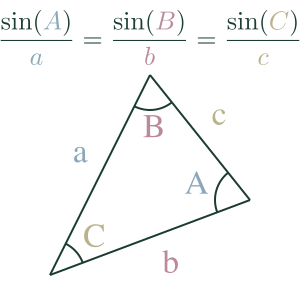
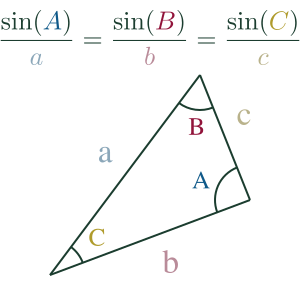
Various fixes to law of sines.

diff --git a/code/manim/law_of_sines.py b/code/manim/law_of_sines.py
@@ -22,7 +22,7 @@ line_args = {}
 
 class LawOfSinesTriangle(Scene):
     def construct(self):
-        line_1 = Line(start=array([-2, -2.5, 0]), end=array([0, 1.5, 0]), **line_args)
+        line_1 = Line(start=array([-2, -2.5, 0]), end=array([1, 1.5, 0]), **line_args)
         line_1.set_color(Theme.TEXT_COLOR)
 
         line_2 = Line(start=array([-2, -2.5, 0]), end=array([2, -1, 0]), **line_args)
@@ -40,13 +40,13 @@ class LawOfSinesTriangle(Scene):
         equation = MathTex(r"\frac{\sin(A)}{a} = \frac{\sin(B)}{b} = \frac{\sin(C)}{c}", font_size=50)
         equation.set_color(Theme.TEXT_COLOR)
 
-        equation[0][4].set_color(Theme.COLOR_2)
+        equation[0][4].set_color(Theme.COLOR_2_a)
         equation[0][7].set_color(Theme.COLOR_2)
 
-        equation[0][13].set_color(Theme.COLOR_3)
+        equation[0][13].set_color(Theme.COLOR_3_a)
         equation[0][16].set_color(Theme.COLOR_3)
 
-        equation[0][22].set_color(Theme.COLOR_1)
+        equation[0][22].set_color(Theme.COLOR_1_a)
         equation[0][25].set_color(Theme.COLOR_1)
 
         equation.move_to(UP * 2.25)
@@ -57,9 +57,9 @@ class LawOfSinesTriangle(Scene):
         self.add_label(line_2, 'b', Theme.COLOR_3, DOWN + RIGHT)
         self.add_label(line_3, 'c', Theme.COLOR_1, UP + RIGHT)
 
-        self.add_angle_label(angle_A, 'A', Theme.COLOR_2, 0.2 * UP + 0.5 * LEFT)
-        self.add_angle_label(angle_B, 'B', Theme.COLOR_3, 0.4 * DOWN + 0 * LEFT)
-        self.add_angle_label(angle_C, 'C', Theme.COLOR_1, 0.35 * UP + 0.4 * RIGHT)
+        self.add_angle_label(angle_A, 'A', Theme.COLOR_2_a, 0.2 * UP + 0.5 * LEFT)
+        self.add_angle_label(angle_B, 'B', Theme.COLOR_3_a, 0.4 * DOWN + 0 * LEFT)
+        self.add_angle_label(angle_C, 'C', Theme.COLOR_1_a, 0.35 * UP + 0.4 * RIGHT)
 
     def add_label(self, line, text, color, direction):
         label = Text(text)
@@ -68,7 +68,7 @@ class LawOfSinesTriangle(Scene):
         self.add(label)
 
     def add_angle_label(self, angle, text, color, offset):
-        label = Text(text)
+        label = Text(text, font_size=36)
         label.set_color(color)
         label.move_to(angle.get_center() + offset)
         self.add(label)

diff --git a/code/manim/theme.py b/code/manim/theme.py
@@ -6,4 +6,8 @@ class Theme():
     COLOR_3 = '#b98b99'
     COLOR_4 = '#7A976B'
 
+    COLOR_1_a = "#af9b2c"
+    COLOR_2_a = "#0f5989"
+    COLOR_3_a = "#91133a"
+
     TEXT_COLOR = '#1B3D2F'

diff --git a/notes/permanent/law-of-sines.md b/notes/permanent/law-of-sines.md
@@ -6,7 +6,7 @@ tags:
   - Trigonometry
   - PreLinearAlgebra
 cover: /_media/law-of-sines-cover.png
-summary: The ratio between the sine of an angle and the side opposite it, will be constant for all angles in a triangle
+summary: Tells us the ratio between the sine of an angle and the side opposite it will be constant for all angles in a triangle
 ---
 
 The Law of Sines tells us that the ratio between the sine of an angle and the side opposite will be constant for any angle in a triangle.
@@ -40,11 +40,13 @@ $\sin B = 0.0446$
 Then use $\arcsin$ to find $B$
 
 $B = arcsin(0.0446)$
+
 $B = 2.557°$
 
 We can now find $A$ since we know that all the angles in a triangle add up to $180°$
 
 $A = 180° - 42° - 2.56°$
+
 $A = 135.44°$
 
 Now to find $a$, we can use the Law of Sines again:
@@ -58,6 +60,7 @@ $0.0446 = 0.702 / a$
 Multiply both sides by A:
 
 $a \times 0.0446 = 0.702$
+
 $a = \frac{0.702}{0.0446} = 15.74cm$
 
 Now that we have the missing values, we can use the Law of Sines to check that all ratios are equal:
@@ -71,10 +74,15 @@ $\frac{sin(42°)}{15} = 0.045$
 **Answer**
 
 $A = 135.44°$
+
 $B = 2.56°$
+
 $C = 42°$
 
 $a = 15.74cm$
+
 $b = 1cm$
+
 $c = 15cm$
 
+See also [Law Of Cosines](law-of-cosines.md).

diff --git a/notes/permanent/law-of-cosines.md b/notes/permanent/law-of-cosines.md
@@ -31,6 +31,6 @@ $c^2 = a^2 + b^2$
 
 ...which is the [Pythogorean theorem](https://en.wikipedia.org/wiki/Pythagorean_theorem).
 
-[@khanacademylabsLawCosinesSolving]
-
 #Maths/Trigonometry
+
+See also [Law of Sines](law-of-sines.md).
